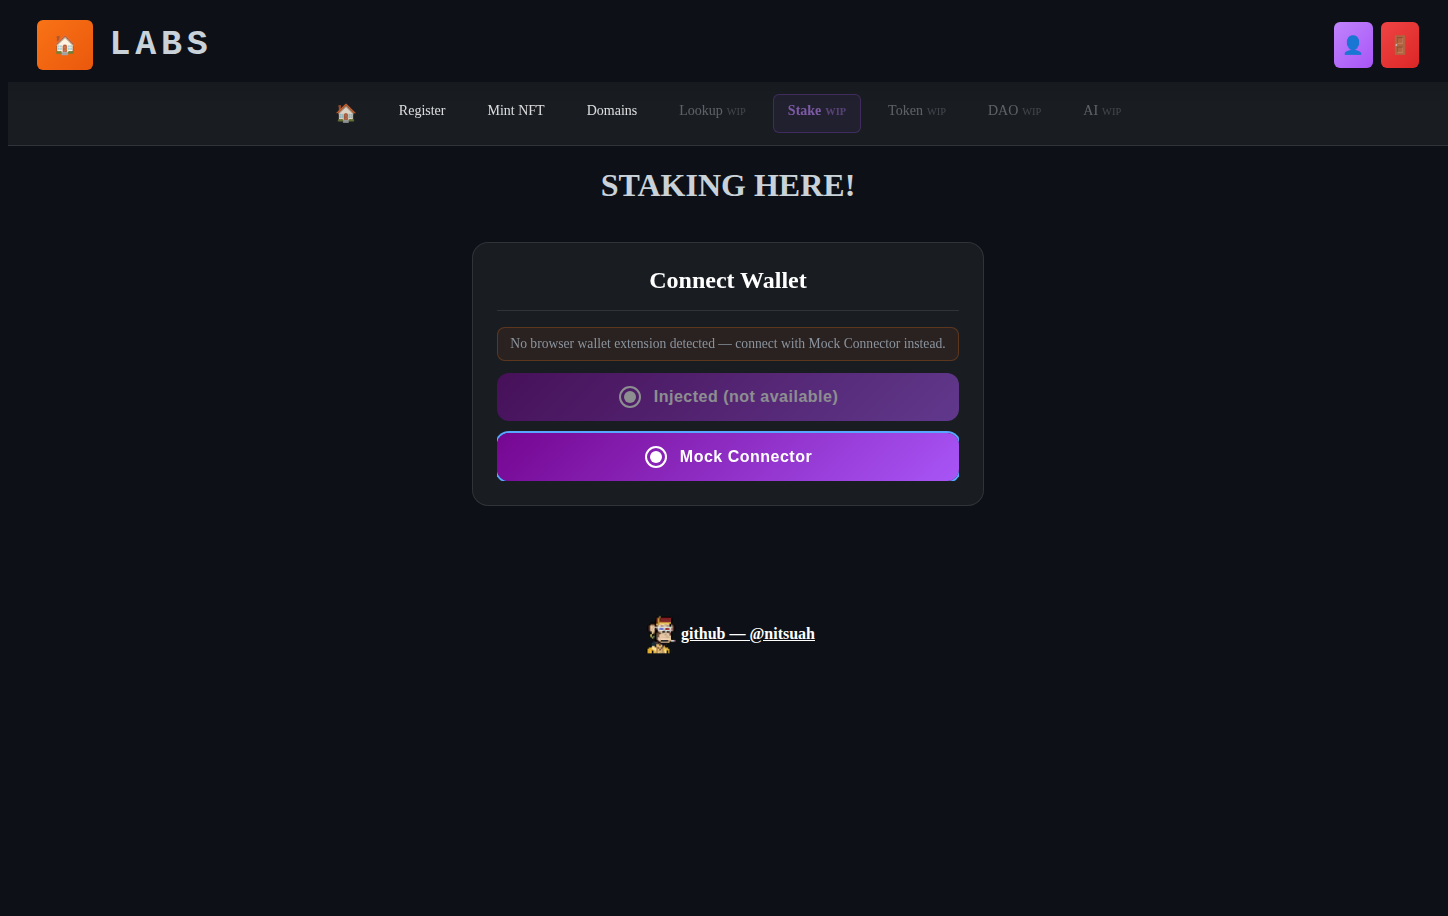
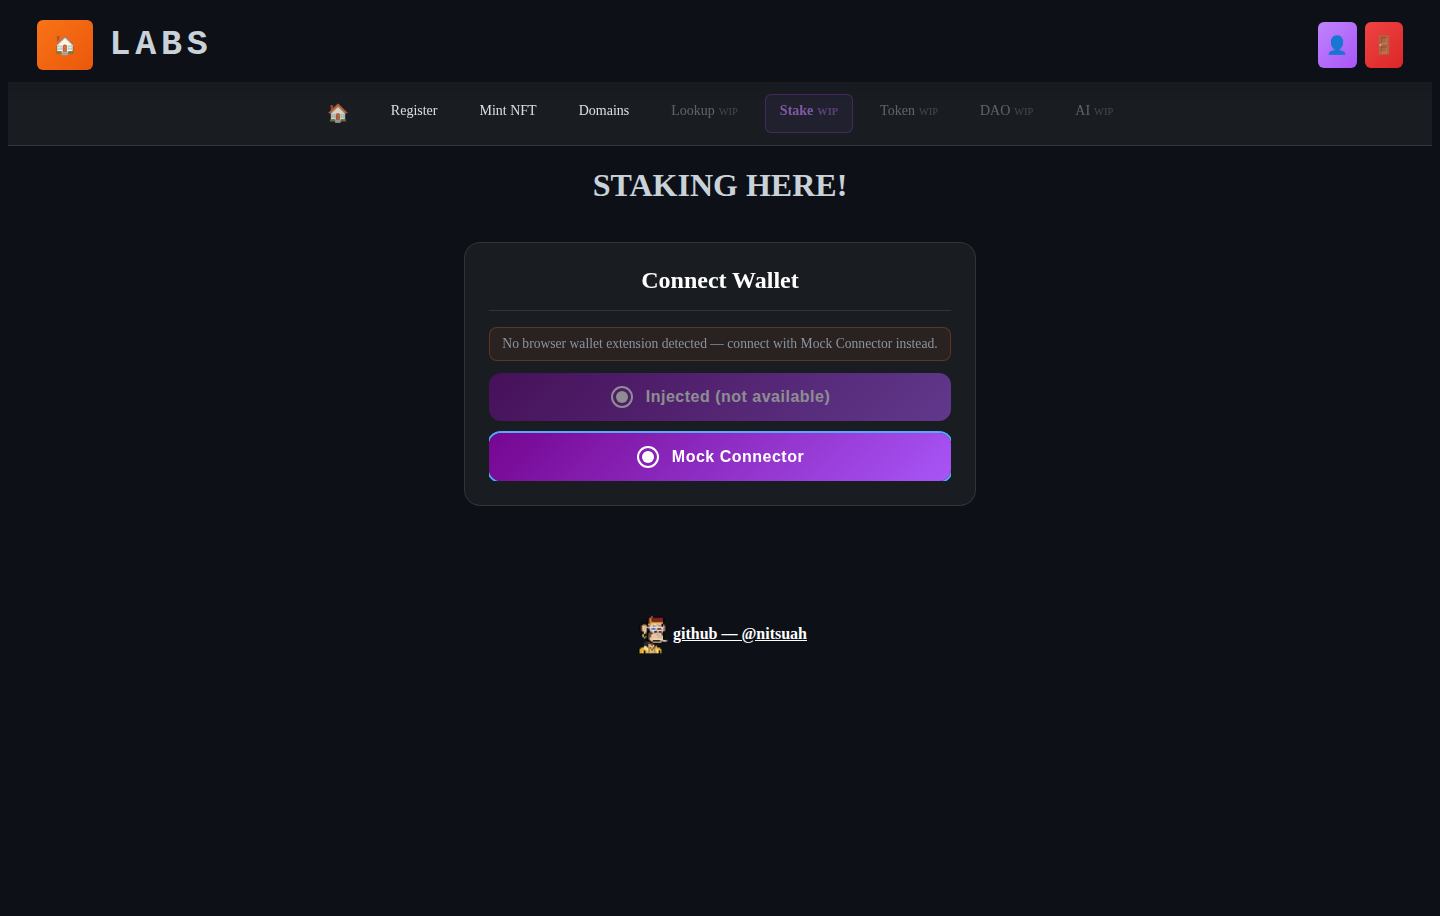
fix: mobile layout, Spline mount, blog punctuation and home clipping (#565-#572)
Fixes #565
Fixes #566
Fixes #567
Fixes #568
Fixes #569
Fixes #572

- #565: blog post CSS module selectors wrapped in :global so the image max-width and TOC hide apply; article may shrink below its widest code line so pre scrolls.
- #566: /profile main uses boxSizing border-box (100% + 2rem padding overflowed by 32px).
- #567: Labs .App uses width 100% instead of 100vw (body margin added 8px sideways scroll).
- #568: /3d mounts the Spline runtime on its public scene again (d8766c3 had replaced the mount with a placeholder); scene is kept inside its framed panel.
- #569: encoding pass had replaced em dashes, arrows, tree characters and check/cross marks in 7 posts with |--, |    and [OK]; restored from the clean copy in git history (5f28e39/ff99759) and by rule for new lines; code-sample links unwrapped. Unit test rejects |-- and [OK].
- #572: home .home-main uses min-height instead of a fixed height, no overflow hidden, plus bottom padding so the last card row clears the fixed footer.

Baselines regenerated in the Playwright 1.64 image: journeys (3 mock-wallet visitor steps), docs/screenshots (19 PNGs whose layout changed; 3d.png shows the fallback text because the screenshot fixture blocks Spline).

diff --git a/src/app/projects/blogs/[slug]/BlogPost.module.css b/src/app/projects/blogs/[slug]/BlogPost.module.css
@@ -1,37 +1,37 @@
 /* Blog Post Content Styles */
-.blog-content {
+:global(.blog-content) {
   font-family:
     -apple-system, BlinkMacSystemFont, "Segoe UI", "Roboto", "Oxygen", "Ubuntu",
     "Cantarell", "Fira Sans", "Droid Sans", "Helvetica Neue", sans-serif;
 }
 
-.blog-content h1,
-.blog-content h2,
-.blog-content h3,
-.blog-content h4 {
+:global(.blog-content) h1,
+:global(.blog-content) h2,
+:global(.blog-content) h3,
+:global(.blog-content) h4 {
   scroll-margin-top: 100px;
 }
 
-.blog-content pre {
+:global(.blog-content) pre {
   position: relative;
 }
 
-.blog-content pre code {
+:global(.blog-content) pre code {
   display: block;
   white-space: pre;
   word-wrap: normal;
 }
 
-.blog-content a:hover {
+:global(.blog-content) a:hover {
   border-bottom-color: #3b82f6;
 }
 
-.blog-content ul,
-.blog-content ol {
+:global(.blog-content) ul,
+:global(.blog-content) ol {
   margin-left: 1.5rem;
 }
 
-.blog-content table {
+:global(.blog-content) table {
   width: 100%;
   border-collapse: collapse;
   margin: 1.5rem 0;
@@ -40,67 +40,67 @@
   overflow: hidden;
 }
 
-.blog-content th,
-.blog-content td {
+:global(.blog-content) th,
+:global(.blog-content) td {
   padding: 0.75rem 1rem;
   border: 1px solid rgba(59, 130, 246, 0.2);
   text-align: left;
 }
 
-.blog-content th {
+:global(.blog-content) th {
   background: rgba(59, 130, 246, 0.1);
   font-weight: 600;
   color: #3b82f6;
 }
 
-.blog-content td {
+:global(.blog-content) td {
   color: rgba(255, 255, 255, 0.8);
 }
 
 /* Mobile responsiveness */
 @media (max-width: 768px) {
-  .blog-content {
+  :global(.blog-content) {
     font-size: 1rem;
   }
 
-  .blog-content pre {
+  :global(.blog-content) pre {
     padding: 1rem;
     font-size: 0.875rem;
   }
 
-  .blog-content h1 {
+  :global(.blog-content) h1 {
     font-size: 1.75rem !important;
   }
 
-  .blog-content h2 {
+  :global(.blog-content) h2 {
     font-size: 1.5rem !important;
   }
 
-  .blog-content h3 {
+  :global(.blog-content) h3 {
     font-size: 1.25rem !important;
   }
 }
 
 /* Syntax highlighting for code blocks */
-.blog-content code {
+:global(.blog-content) code {
   tab-size: 2;
 }
 
 /* Checkmark lists */
-.blog-content li:has(input[type="checkbox"]) {
+:global(.blog-content) li:has(input[type="checkbox"]) {
   list-style: none;
   margin-left: -1.5rem;
 }
 
 /* Horizontal rules */
-.blog-content hr {
+:global(.blog-content) hr {
   border: none;
   border-top: 2px solid rgba(59, 130, 246, 0.3);
   margin: 2rem 0;
 }
 
 /* Floating TOC */
-.toc {
+:global(.toc) {
   position: sticky;
   top: 100px;
   max-width: 200px;
@@ -111,29 +111,29 @@
   border-radius: 8px;
   font-size: 0.9rem;
 }
-.toc ul {
+:global(.toc) ul {
   list-style: none;
   padding: 0;
   margin: 0;
 }
-.toc li {
+:global(.toc) li {
   margin-bottom: 0.5rem;
 }
-.toc a {
+:global(.toc) a {
   color: #3b82f6;
   text-decoration: none;
 }
-.toc a:hover {
+:global(.toc) a:hover {
   text-decoration: underline;
 }
 @media (max-width: 768px) {
-  .toc {
+  :global(.toc) {
     display: none;
   }
 }
 
 /* Images */
-.blog-content img {
+:global(.blog-content) img {
   max-width: 100%;
   height: auto;
   border-radius: 8px;

diff --git a/src/app/_components/_spline/spline-home.tsx b/src/app/_components/_spline/spline-home.tsx
@@ -1,13 +1,15 @@
 // Spline Home Navigation
 "use client";
-import { useEffect, useState } from "react";
+import { useEffect, useRef, useState } from "react";
 
-// Set the scene URL
+// Public scene URL (no API key needed)
 const SPLINE_SCENE = `https://prod.spline.design/I53VLJ6OCdGVN8lr/scene.splinecode`;
 
 export function SplineScene() {
   const [isLoading, setIsLoading] = useState(true);
   const [shouldRender, setShouldRender] = useState(false);
+  const [failed, setFailed] = useState(false);
+  const canvasRef = useRef<HTMLCanvasElement | null>(null);
 
   // Auto-hide loading after 10 seconds regardless of actual load state
   useEffect(() => {
@@ -38,6 +40,34 @@ export function SplineScene() {
     };
   }, []);
 
+  // Mount the Spline runtime on the canvas once the browser is idle
+  useEffect(() => {
+    if (!shouldRender || !canvasRef.current) return;
+
+    let cancelled = false;
+
+    const initSpline = async () => {
+      try {
+        const { Application } = await import("@splinetool/runtime");
+        if (cancelled || !canvasRef.current) return;
+        const app = new Application(canvasRef.current, { renderMode: "auto" });
+        await app.load(SPLINE_SCENE);
+        if (!cancelled) setIsLoading(false);
+      } catch {
+        if (!cancelled) {
+          setFailed(true);
+          setIsLoading(false);
+        }
+      }
+    };
+
+    initSpline();
+
+    return () => {
+      cancelled = true;
+    };
+  }, [shouldRender]);
+
   return (
     // Use the page-level spline container so the scene can sit behind header/footer
     <div
@@ -55,11 +85,14 @@ export function SplineScene() {
         </div>
       )}
 
-      {/* The Spline runtime injects a canvas; wrap it so we can force sizing via CSS */}
+      {/* The Spline runtime draws into this canvas; CSS forces it to fill the wrapper */}
       <div className="spline-canvas" aria-hidden={isLoading ? "true" : "false"}>
-        {shouldRender ? (
+        {shouldRender && !failed ? (
+          <canvas ref={canvasRef} aria-label="Interactive 3D scene" />
+        ) : null}
+        {failed ? (
           <div className="spline-loading-text" role="status" aria-live="polite">
-            Interactive scene is unavailable in this environment.
+            Interactive scene could not be loaded.
           </div>
         ) : null}
       </div>

diff --git a/src/app/_components/_styles/global.css b/src/app/_components/_styles/global.css
@@ -424,15 +424,15 @@ header {
 
 /* Home page single-screen layout on desktop */
 .home-single-page {
-  height: 100vh;
-  overflow: hidden;
+  min-height: 100vh;
 }
 
 .home-main {
-  height: calc(100vh - 66px);
+  min-height: calc(100vh - 66px);
   display: grid;
   grid-template-rows: 55% 45%;
-  overflow: hidden;
+  /* keep the last card row clear of the fixed footer bar */
+  padding-bottom: 8rem;
 }
 
 @media (max-width: 900px) {
@@ -444,6 +444,7 @@ header {
 
   .home-main {
     height: auto;
+    min-height: 0;
     display: block;
     overflow: visible;
   }
@@ -528,6 +529,14 @@ main {
   height: 100% !important;
   display: block;
   pointer-events: auto; /* Enable Spline canvas interactions */
+}
+
+/* /3d frames the scene in a fixed-height panel: keep it inside the frame */
+.spline-frame .spline-container {
+  position: relative;
+  inset: auto;
+  height: 100%;
+  pointer-events: auto;
 }
 
 .spline-loading {

diff --git a/src/__tests__/blog-content.test.ts b/src/__tests__/blog-content.test.ts
@@ -1,0 +1,16 @@
+/**
+ * @jest-environment node
+ */
+// Guards #569: an encoding pass turned em dashes, arrows, tree-drawing
+// characters and check/cross marks into ASCII "|-- ", "|    " and "[OK]".
+import { blogPosts } from "../lib/data/blogs";
+
+describe("blog post content", () => {
+  it.each(blogPosts.map((post) => [post.slug, post.content] as const))(
+    "%s has no mangled punctuation",
+    (_slug, content) => {
+      expect(content).not.toContain("|-- ");
+      expect(content).not.toContain("[OK]");
+    },
+  );
+});

diff --git a/src/app/projects/blogs/[slug]/page.tsx b/src/app/projects/blogs/[slug]/page.tsx
@@ -88,6 +88,8 @@ export default async function BlogPostPage({ params }: BlogPostPageProps) {
               maxWidth: "800px",
               padding: "2rem 1rem",
               flex: 1,
+              // Let the flex item shrink below its widest code line so <pre> scrolls
+              minWidth: 0,
             }}
           >
             {/* Category Badge */}

diff --git a/src/app/3d/page.tsx b/src/app/3d/page.tsx
@@ -53,6 +53,7 @@ const ThreeDPage: React.FC = () => {
               </p>
             </div>
             <div
+              className="spline-frame"
               style={{
                 width: "100%",
                 height: "70vh",

diff --git a/src/app/profile/page.tsx b/src/app/profile/page.tsx
@@ -54,6 +54,7 @@ const ProfilePage: React.FC = () => {
           padding: "2rem 1rem",
           maxWidth: "800px",
           width: "100%",
+          boxSizing: "border-box",
           margin: "80px auto 0",
         }}
       >

diff --git a/src/app/_components/_styles/labs.css b/src/app/_components/_styles/labs.css
@@ -8,7 +8,7 @@ html {
   display: flex;
   flex-direction: column;
   height: 100vh;
-  width: 100vw;
+  width: 100%;
   background-color: var(--color-background);
   text-align: center;
   color: var(--color-text-primary);

diff --git a/docs/CHANGELOG.md b/docs/CHANGELOG.md
@@ -29,6 +29,10 @@ and this project adheres to [Semantic Versioning](https://semver.org/spec/v2.0.0
 - `Docker Images` workflow builds `config/Dockerfile.unit` and `config/Dockerfile.test` and runs Jest / Playwright inside them whenever `.nvmrc`, a Dockerfile or a compose file changes. CI Fast uses setup-node and never exercised these images.
 
 ### Fixed
+- Mobile layout (390 px): blog post CSS selectors are `:global` so the image max-width and the TOC hide apply (#565); `/profile` main uses `border-box` so it no longer overflows by 32 px (#566); Labs pages use `width: 100%` instead of `100vw`, removing the 8 px sideways scroll (#567).
+- `/3d` mounts the Spline runtime on its public scene again (a placeholder had replaced the mount in d8766c3), inside its framed panel (#568).
+- Blog posts: the encoding pass had replaced em dashes, arrows, tree characters and check/cross marks in 7 posts with `|--`, `|    ` and `[OK]`; restored from the clean copies in history, plus links unwrapped inside code samples. A unit test rejects `|-- ` and `[OK]` in post content (#569).
+- Home page at 1440×900: the `.home-main` grid no longer clips the project cards; short viewports scroll (#572).
 - Docs: README and METRICS now reflect the Node 26.11.1 pin and the Playwright image's actual bundled Node (v24.21.0, not 24.20.0).
 - Every page declared `<link rel="canonical" href="https://nitsuah.io">` (a root-layout `alternates.canonical` inherited by all routes), telling search engines each page, including every blog post, was a duplicate of the homepage.
 - Site-wide `og:image`/`twitter:image` pointed at `/social-preview.svg`, which doesn't exist (404), so shared links had no preview image.
